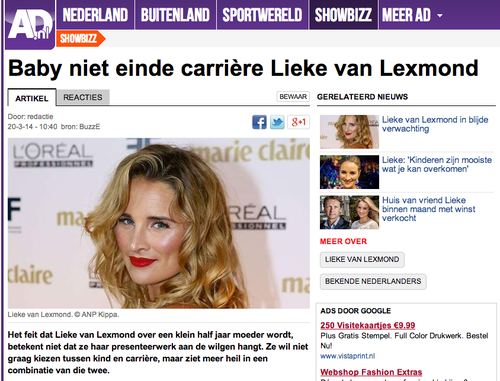
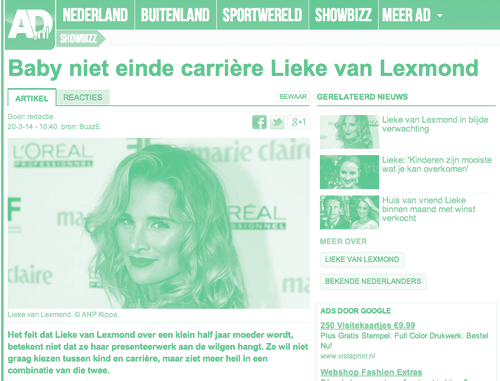
Beelden bewerkt

diff --git a/index.html b/index.html
@@ -36,7 +36,7 @@
             </div>
 
             <div id="cover_caption">het beeld van de vrouw in de huidige mediacultuur | <strong>door Alice Mulder</strong>
-                <div id="start_reading" data-target="#introductie">Begin met lezen</div>
+                <div id="start_reading" data-target="#inleiding">Begin met lezen</div>
             </div>
         </div>
 
@@ -351,8 +351,8 @@
                     <p>Door het herhalen van keer op keer dezelfde lichaamsbeelden — (te) slank en onrealistisch voor het grootste deel van de bevolking — bereiken ze wél de verkoopcijfers die ze binnen willen halen. De marketingbudgetten zijn soms groter dan de BNP’s van 80% van de landen ter wereld, dus er is zeer veel geld mee gemoeid. Een ander schokkend feit is dat de meeste vrouwen in hun leven meer geld uitgeven aan schoonheidsproducten dan dat ze geld uitgeven aan hun opleiding en investering in de rest van hun leven. Uiteindelijk zullen ze aan dat laatste meer geld overhouden. Qua cijfers: Amerikaanse vrouwen geven jaarlijks $12.000 tot $15.000 uit aan schoonheidsbehandelingen en -producten, en het aantal cosmetische operaties is verdrievoudigd tussen 1997 en 2007<sup id="fnref:39"><a href="#fn39" rel="footnote">39</a></sup>. Meisjes van 16 krijgen geen mooie rugtas of nieuwe fiets, maar een nose- of boobjob, terwijl hun puberlichamen nog niet eens uitgegroeid zijn. Daarmee wordt nog maar eens bevestigd dat je van nature eigenlijk niet goed genoeg bent, en dat alles maakbaar is. Niet tevreden? Ach, dan gaan we toch even in je snijden (dit is natuurlijk vooral het geval in Amerika, maar ook in mindere mate aanwezig in Nederland)</p>
                     <p>Zo worden meisjes en vrouwen steeds meer als (maakbaar) object gezien, en zo zien ze zichzelf ook steeds meer. Dit is een groot probleem, want hierdoor verliest men de lichamelijke band met zichzelf en is de kans op depressiviteit veel en veel groter. Ook eetstoornissen nemen toe, en met het verlaagde zelfvertrouwen, lagere schoolresultaten en de lagere ambitie die daardoor ontstaan, groeit er een hele generatie vrouwen op die waarschijnlijk een stap terug zullen nemen wat betreft zelfstandigheid en het maken van een carrière. Het maken van een object van de vrouw heeft ook effect op mannen, die door het scheve beeld in de media (neem hiphopvideo’s als voorbeeld, waar de tieten en billen je om de oren vliegen) denken dat je vrouwen wel even kan vertellen wat ze moeten doen.</p>
                     <br>
-                    <img src="img/Kookboeken1.jpg" width="150px" style="PADDING-RIGHT: 10px"><img src="img/Kookboeken2.jpg" width="160px" style="PADDING-RIGHT: 10px">
-                    <img src="img/Kookboeken3.jpeg" width="150px" style="PADDING-RIGHT: 10px"><img src="img/Kookboeken4.jpeg" width="150px">
+                    <img src="img/Kookboeken1.png" width="160px" style="PADDING-RIGHT: 10px"><img src="img/Kookboeken2.png" width="170px" style="PADDING-RIGHT: 10px">
+                    <img src="img/Kookboeken3.png" width="160px" style="PADDING-RIGHT: 10px"><img src="img/Kookboeken4.png" width="160px">
                     <br>
                     <br>
                     <p>Nu zullen die cijfers in Nederland nog wel meevallen, maar in de loop van de tijd zullen deze trends ook in Nederland effect hebben. Nu al valt mij op dat als ik kijk naar achtstegroepers of brugpiepers, dat de meeste meisjes mascara of nog meer make-up dragen, een bh ’nodig denken te hebben’ en het verschil tussen jongens en meisjes enorm benadrukken.</p>
@@ -397,24 +397,29 @@
 
                         <p>Onderstaande voorbeelden<sup id="fnref:43"><a href="#fn43" rel="footnote">43</a></sup> geven weer hoe stereotype verslaggeving soms onopvallend te werk gaat:</p>
 
-                        <img src="img/Voorbeeld-1.jpg" width="200px" style="PADDING-RIGHT: 10px">
+                        <img src="img/Voorbeeld-1.png" width="200px" style="PADDING-RIGHT: 10px">
                         <p>Zomaar een bericht over een première van een film. Maar waarom is de cupmaat van een van de hoofdrolspeelsters van belang? </p>
+                        <br>
                         <img src="img/Voorbeeld-2.png" width="200px" style="PADDING-RIGHT: 10px">
                         <p>Lieke van Lexmond, actrice, is in verwachting. Het AD stelt gelijk de vraag of ze dan gaat stoppen met werken. Wordt deze vraag ooit aan een man gesteld, als zijn vriendin/vrouw zwanger is?</p>
-                        <img src="img/Voorbeeld-3.jpg" width="200px" style="PADDING-RIGHT: 10px">
+                        <br>
+                        <img src="img/Voorbeeld-3.png" width="200px" style="PADDING-RIGHT: 10px">
                         <p>Heel belangrijk detail om te weten dat de mogelijk nieuwe directrice van de BBC een getrouwde moeder met drie kinderen is. Wederom: wordt deze vraag ooit aan een man gesteld?</p>
-                        <img src="img/Voorbeeld-4.jpg" width="200px" style="PADDING-RIGHT: 10px">
+                        <br>
+                        <img src="img/Voorbeeld-4.png" width="200px" style="PADDING-RIGHT: 10px">
                         <p>Typisch voorbeeld van hoe mannen als het krachtige en machtige geslacht wordt gezien (met linksboven de aandacht van vrouwen als logisch gevolg daarvan) en hoe vrouwen pas de aandacht trekken als ze naakt poseren. Anders verkoopt de cover waarschijnlijk niet. (GQ is een voornamelijk op mannen gericht lifestyle blad)<p>
-                        <img src="img/Voorbeeld-5.jpg" width="200px" style="PADDING-RIGHT: 10px">
+                        <br>
+                        <img src="img/Voorbeeld-5.png" width="200px" style="PADDING-RIGHT: 10px">
                         <p>Wat betreft speelgoed wordt kinderen al heel jong duidelijk gemaakt wie ze moeten zijn: als jongen lees je het boekje over stoere cowboys, en als meisje wordt je natuurlijk aangetrokken door de roze, mooie ballerina.</p>
+                        <br>
 
                         <p>Om te onderzoeken in hoeverre ik in mijn directe omgeving seksistische berichtgeving/representatie kon vinden, heb ik een klein visueel onderzoek gedaan naar reclamefolders. Zo kwam ik onder andere tot de ontdekking dat voor Albert Heijn het heel simpel is: jongens houden van voetbal en meisjes van uiterlijke vertoning door hoge hakken en lippenstift. </p>
 
-                        <img src="img/Alice-Mulder---Marsepein.png" width="500px" style="PADDING-RIGHT: 150px">
-                        <img src="img/Alice-Mulder---V&D.png" width="500px" style="PADDING-RIGHT: 150px">
-                        <img src="img/Alice-Mulder---Top1Toys.png" width="500px" style="PADDING-RIGHT: 150px">
-                        <img src="img/Alice-Mulder---Trekpleister.png" width="500px" style="PADDING-RIGHT: 150px">
-                        <img src="img/Alice-Mulder---Volkskrant.png" width="500px" style="PADDING-RIGHT: 150px">
+                        <img src="img/Marsepein.png" width="600px" style="PADDING-RIGHT: 150px">
+                        <img src="img/VD.png" width="600px" style="PADDING-RIGHT: 150px">
+                        <img src="img/Top1Toys.png" width="600px" style="PADDING-RIGHT: 150px">
+                        <img src="img/Trekpleister.png" width="600px" style="PADDING-RIGHT: 150px">
+                        <img src="img/Volkskrant.png" width="600px" style="PADDING-RIGHT: 150px">
                         <br>
                         <br>
                         <p>Een eenduidig antwoord op de vraag of we gewend zijn aan het seksisme is moeilijk te geven want dat is al een onderzoek op zich, maar het feit dat het in zulke kleine dingen als een introtekst in de krant te vinden is, geeft aan dat het breed verspreid te vinden is. We zien het zo veel en soms zo subtiel om ons heen, dat je het op een gegeven moment niet echt meer door hebt.</p>

diff --git a/style.css b/style.css
@@ -123,12 +123,13 @@ main {
   margin: 50px auto;
   width: 70vh;
   height: 70vh;
+  padding top: 50;
   background: url("img/cover–robin-thicke.png") center no-repeat;
   background-size: cover;
 }
-#cover_title {
+.cover_title {
     position: absolute;
-    z-index: 2;
+    z-index: 1;
     width: 100vw;
     font: normal normal 48pt/1em 'Times', serif;
     text-align: center;
